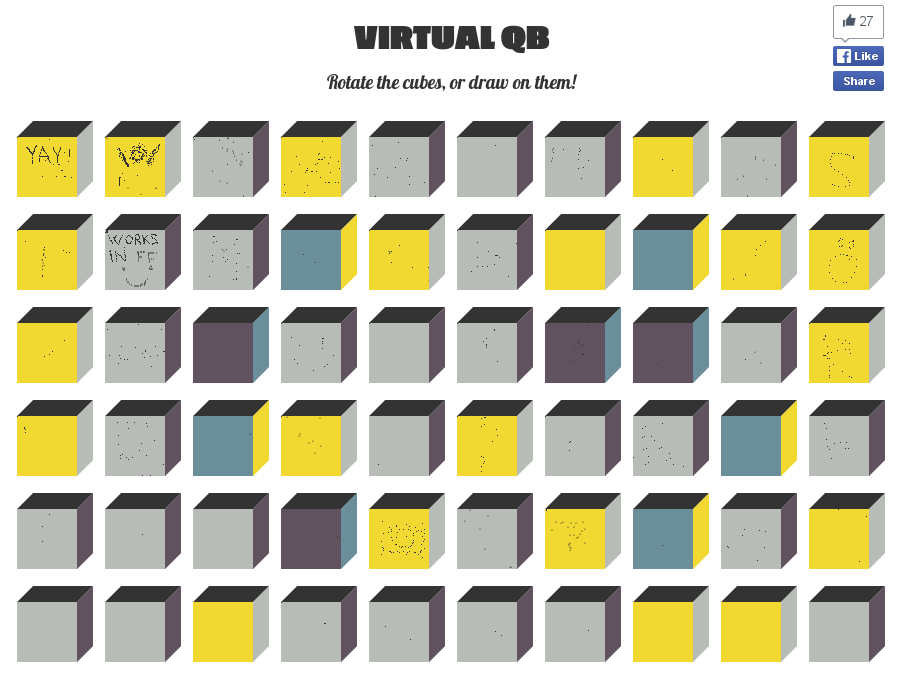
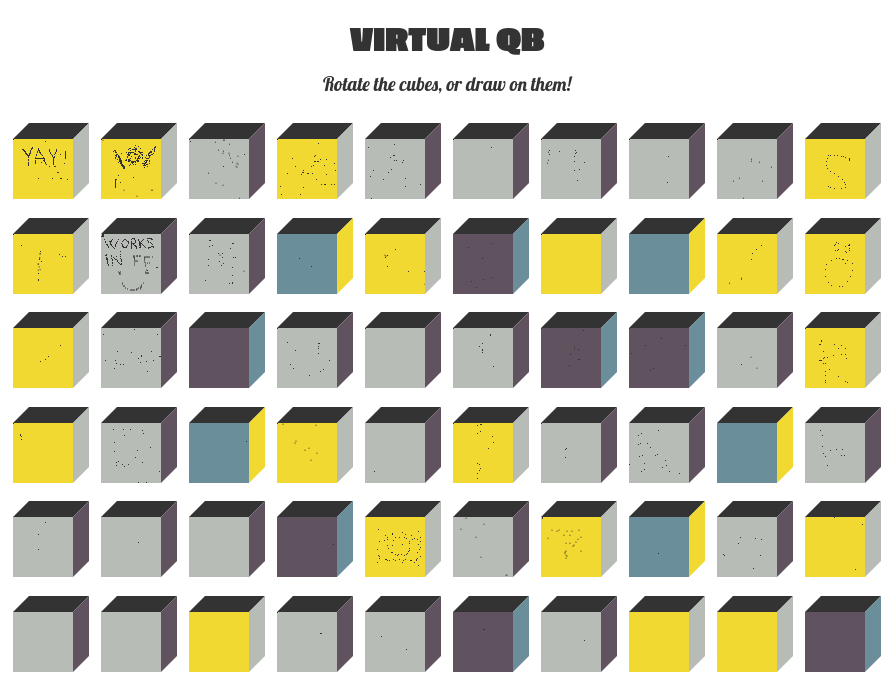
Remove Facebook like/share and Open Graph metadata

diff --git a/index.html b/index.html
@@ -3,30 +3,17 @@
     <head>
         <title>Virtual QB</title>
         <meta charset="UTF-8">
-        
-        <!-- 
+        <!--
         <meta name="viewport" content="width=820, initial-scale=1.0">
         -->
-        
-        <meta property="og:title" content="Virtual QB" />
-        <meta property="og:image" content="https://tbitai.github.io/vqb.png" />
-        <meta property="og:description" content="Rotate the cubes, or draw on them!" />
-        
-        <!-- Facebook admin for Insights -->
-        <meta property="fb:admins" content="1634121238" />
-        
         <script src="https://ajax.googleapis.com/ajax/libs/angularjs/1.3.0-beta.6/angular.min.js"></script>
- 
         <!--
         <script src="https://ajax.googleapis.com/ajax/libs/angularjs/1.3.0-beta.6/angular-resource.min.js"> </script>
         <script src="https://ajax.googleapis.com/ajax/libs/angularjs/1.3.0-beta.6/angular-route.min.js"></script>
         -->
-   
         <script src='https://cdn.firebase.com/js/client/1.0.11/firebase.js'></script>
         <script src='https://cdn.firebase.com/libs/angularfire/0.7.1/angularfire.min.js'></script>
-        
         <script src="//code.jquery.com/jquery-1.11.0.min.js"></script>
-        
         <link rel="stylesheet" href="https://netdna.bootstrapcdn.com/bootstrap/3.1.1/css/bootstrap.min.css">
         <link href='https://fonts.googleapis.com/css?family=Lobster' rel='stylesheet' type='text/css'>
         <link href='https://fonts.googleapis.com/css?family=Passion+One:400,900' rel='stylesheet' type='text/css'>
@@ -47,41 +34,17 @@
                 font-family: "Lobster";
                 font-size: 19px;
             }
-            .fb-like{
-                margin-top: 6px;
-            }
             .container {
                 width: 880px; /* (60 + 16 + 2 * 6) * 10 */
             } 
         </style>
     </head>
     <body>
-        <div id="fb-root"></div>
-        <script>
-                (function(d, s, id) {
-            var js, fjs = d.getElementsByTagName(s)[0];
-            if (d.getElementById(id)) return;
-            js = d.createElement(s); js.id = id;
-            js.src = "//connect.facebook.net/en_GB/sdk.js#xfbml=1&version=v2.0";
-            fjs.parentNode.insertBefore(js, fjs);
-            }(document, 'script', 'facebook-jssdk'));
-        </script>
-
-        <div class="container">     
+        <div class="container">
             <div class="row">
                 <div class="text-center col-xs-6 col-xs-offset-3">            
                     <h1>Virtual QB</h1>
                     <p class="lead">Rotate the cubes, or draw on them!</p>
-                </div>
-                <div class="col-xs-1 col-xs-offset-2">
-                    <div class="fb-like"
-                        data-href="http://tbitai.github.io/vqb/"
-                        data-width="120"
-                        data-layout="box_count"
-                        data-action="like"
-                        data-show-faces="true"
-                        data-share="true">
-                    </div>
                 </div>
             </div>
             <div class="row">

diff --git a/README.md b/README.md
@@ -3,12 +3,9 @@ Virtual QB
 
 Rotate the cubes, or draw on them!
 
-![Virtual QB](https://raw.githubusercontent.com/tbitai/vqb/master/vqb.png)
+[![Virtual QB website](vqb.png)](https://tbitai.github.io/vqb)
 
 This is a virtual version of [QB](http://szinesvaros.hu/index.php/en/projects/item/11-bp-v-erzsebet-ter), once located at Erzsébet 
 Square, Budapest.
 
 It is built with Angular + Firebase.
-
-The app lives here: [http://tbitai.github.io/vqb/](http://tbitai.github.io/vqb/)
-
